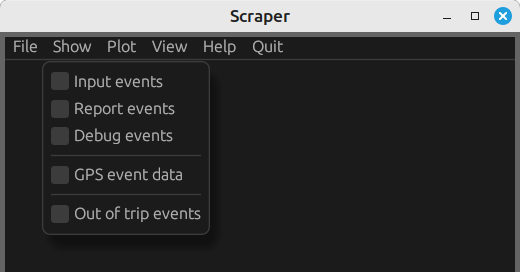
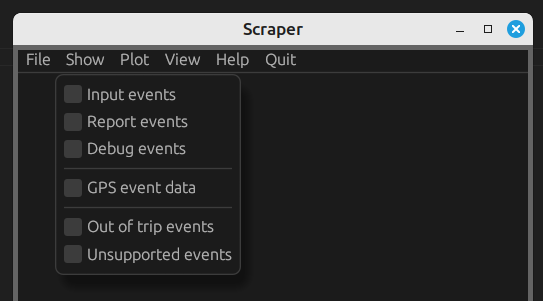
Updated help information.

Changed region(s): [[0.0, 0.0, 1.0, 1.0], [0.0923, 0.5588, 0.4308, 0.9118], [0.0923, 0.4706, 0.3385, 0.5294]]

diff --git a/src/help_content.rs b/src/help_content.rs
@@ -27,7 +27,7 @@ pub fn draw_help_content(ui: &mut egui::Ui, app: &mut MyApp) {
 
     ui.collapsing("2.1 Initial View", |ui| {
         ui.label("At the top of the image above we see that the log file contains 3 trips.");
-        ui.label("The trip is identified by the trip number, and the date and time of the start of the trip.");
+        ui.label("The trips are identified by the trip number, and the date and time of the start of the trip.");
         ui.label("Notice the small arrow at the start of each trip - this indicates that the trip has collapsed data associated with it.");
         ui.label("Clicking on the trip label will expand 1 level below.");
     });
@@ -83,8 +83,21 @@ pub fn draw_help_content(ui: &mut egui::Ui, app: &mut MyApp) {
         ui.add_space(10.0);
     }
 
-    ui.collapsing("2.6 Trip events showing optional REPORT events", |ui| {
-        ui.label("The following figure shows that REPORT events can be included with the other trip events list by selecting 'Report events' from the 'Show' menu.");
+    ui.collapsing("2.6 Trip events showing optional unsupported events", |ui| {
+        ui.label("There may be some events that are not supported (although they may be supported in the future).");
+        ui.label("Unsupported event titles will be shown in the trip/event listing in a special colour as illustrated in purple in the figure below.");
+        ui.label("Note that for unsupported events there is no event attribute data included; other than gps data.");
+    });
+
+    // Optional unsupported events displayed.
+    if let Some(texture) = &app.help_image_17 {
+        ui.add_space(10.0);
+        ui.add(egui::Image::new(texture).max_width(400.0));
+        ui.add_space(10.0);
+    }
+
+    ui.collapsing("2.7 Trip events showing optional REPORT events", |ui| {
+        ui.label("The following figure shows that REPORT events can be included with the other trip events by selecting 'Report events' from the 'Show' menu.");
     });
 
     // Optional report events displayed.
@@ -94,9 +107,9 @@ pub fn draw_help_content(ui: &mut egui::Ui, app: &mut MyApp) {
         ui.add_space(10.0);
     }
 
-    ui.collapsing("2.7 Trip events showing GPS data", |ui| {
+    ui.collapsing("2.8 Trip events showing GPS data", |ui| {
         ui.label("Most trip events include some GPS data in the event string.");
-        ui.label("By checking the 'GPS event data' from the 'Show' menu option, GPS data is apended to the event data for each event as illustrated in below.");
+        ui.label("By checking the 'GPS event data' from the 'Show' menu option, GPS data is appended to the event data for each event as illustrated in the figure below.");
         ui.label("Note that GPS data relies on a gps fix for data to be accurate or useful.");
     });
 
@@ -107,8 +120,8 @@ pub fn draw_help_content(ui: &mut egui::Ui, app: &mut MyApp) {
         ui.add_space(10.0);
     }
 
-    ui.collapsing("2.8 Out of trip events", |ui| {
-        ui.label("By checking the Show Out of trip events' from the 'Show' menu the trip events list will include any (supported) events that occured out of trip, where out of trip means after an end of trip and before a start of trip.");
+    ui.collapsing("2.9 Out of trip events", |ui| {
+        ui.label("By checking the 'Show Out of trip events' item from the 'Show' menu the trip events list will include any (supported) events that occured out of trip, where out of trip means after an end of trip or before a start of trip.");
     });
 
     // Optional out of trip events.
@@ -118,7 +131,7 @@ pub fn draw_help_content(ui: &mut egui::Ui, app: &mut MyApp) {
         ui.add_space(10.0);
     }
 
-    ui.collapsing("2.9 Out of trip event data", |ui| {
+    ui.collapsing("2.10 Out of trip event data", |ui| {
         ui.label("Out of trip events, if displayed, can be expanded to show event data as illustrated below.");
     });
 
@@ -130,8 +143,8 @@ pub fn draw_help_content(ui: &mut egui::Ui, app: &mut MyApp) {
     }
 
     ui.collapsing("3.0 GPS breadcrumb plots", |ui| {
-        ui.label("As described in early sections event data has collected gps data associated with it.");
-        ui.label("As events are recorded in sequence, when plotted, the gps data is a breadcrumn trail of the machine in question.");
+        ui.label("As described in earlier sections event data has collected gps data associated with it.");
+        ui.label("As events are recorded in sequence, when plotted, the gps data is a breadcrumb trail of the machine in question.");
         ui.label("From the Plot menu the user can select to show the gps plot for the currently selected trip (if there is one selected).");
         ui.label("The Plot menu allows the user to select a simple plot (no background), or one with an Open street (OSM), or ESRI satelitte view tile background as illustrated belwo.");
     });
@@ -189,13 +202,78 @@ pub fn draw_help_content(ui: &mut egui::Ui, app: &mut MyApp) {
         ui.add_space(10.0);
     }
 
-    ui.collapsing("4.0 User settings", |ui| {
+    ui.collapsing("4.0 Time series data plots", |ui| {
+        ui.label("As data is collected per trip (discounting out of trip events) it is possible to plot this time series data.");
+        ui.label("From the Plot menu the user can select to show time series plots for the currently selected trip (if there is one selected).");
+        ui.label("On selecting the Time Series Data option from the Plot menu a separate application window will be displayed.");
+        ui.label("The window will be blank or complete with plots depending on whether or not there is a current trip selected.");
+        ui.label("In the figure below a trip is already selected so time series events from the trip are displayed.");
+        ui.label("\nNote that unsupported events are not displayed in the time series plots, and currently only digital, analog, and impulse events are plotted.");
+    });
+
+    // Time series data plotting.
+    if let Some(texture) = &app.help_image_18 {
+        ui.add_space(10.0);
+        ui.add(egui::Image::new(texture).max_width(400.0));
+        ui.add_space(10.0);
+    }
+
+    ui.collapsing("4.1 Time series data plot window scrolling", |ui| {
+        ui.label("As illustrated in the figure above all the time series data is plotted, one event above the other.");
+        ui.label("In the case above the window needs to be scrolled down to see the event plot at the bottom, as shown in the figure below.");
+    });
+
+    // Time series data window scrolling.
+    if let Some(texture) = &app.help_image_19 {
+        ui.add_space(10.0);
+        ui.add(egui::Image::new(texture).max_width(400.0));
+        ui.add_space(10.0);
+    }
+
+    ui.collapsing("4.2 Time series data Pan and Zoom", |ui| {
+        ui.label("My selecting the Pan/Zoom button it is possible to pan and zoom the time series data.");
+        ui.label("Note that panning and zooming can only be done in the X (time) direction.");
+        ui.label("Note also the all plots will pan and zoom together, i.e. the time scale of the plots remain in alignment.");
+        ui.label("Panning and zooming of the time series data is illustrated in the figure below.");
+    });
+
+    // Time series data pan and zoom.
+    if let Some(texture) = &app.help_image_20 {
+        ui.add_space(10.0);
+        ui.add(egui::Image::new(texture).max_width(400.0));
+        ui.add_space(10.0);
+    }
+
+    ui.collapsing("4.3 Cancelling Pan and Zoom", |ui| {
+        ui.label("By pressing the Pan/Zoom button again, it will turn panning and zooming off, but the current state will remain.");
+        ui.label("If desired, select the Reset View button to cancel the panning and zooming to return to the original state.");
+    });
+
+    ui.collapsing("4.4 Time series data Time Cursor", |ui| {
+        ui.label("My selecting the Cursor button it is possible to dispay a time cursor on each of the time series plots.");
+        ui.label("Click on a time series plot, and then move the cursor line to time left or right, doing so will move the cursor line on all plots together.");
+        ui.label("At the bottom of each cursor line is the plot time corresponding to the time at that location.");
+        ui.label("An example of using the time cursor is illustrated in the figure below.");
+    });
+
+    // Time series data time cursor.
+    if let Some(texture) = &app.help_image_21 {
+        ui.add_space(10.0);
+        ui.add(egui::Image::new(texture).max_width(400.0));
+        ui.add_space(10.0);
+    }
+
+    ui.collapsing("4.5 Cancelling the time cursor", |ui| {
+        ui.label("By pressing the Cursor button again, it will remove the time cursor from all plots.");
+    });
+
+    ui.collapsing("5.0 User settings", |ui| {
         ui.label("There are some program related settings that the user can select or use independent of the log scraping functionality.");
         ui.label("These include the dark/light program setting, and the font size of trip and event data information, on the main display.");
         ui.label("These settings will be described in the following sections.");
     });
 
-    ui.collapsing("4.1 Background settings", |ui| {
+    ui.collapsing("5.1 Background settings", |ui| {
         ui.label("From the 'View' menu, the user can select between light and dark mode as illustrated below.");
         ui.label("Note that menu selection is effectively a toggle button.");
         ui.label("Note also that this will change the background to all the application windows.");
@@ -208,7 +286,7 @@ pub fn draw_help_content(ui: &mut egui::Ui, app: &mut MyApp) {
         ui.add_space(10.0);
     }
 
-    ui.collapsing("4.2 Trip and event list font size", |ui| {
+    ui.collapsing("5.2 Trip and event list font size", |ui| {
         ui.label("There is an option to change the font size used for Trip and Event data.");
         ui.label("This is achieved via the 'settings.yml' file, an example of which is shown in the following example (these are also the default values).");
     });

diff --git a/src/app.rs b/src/app.rs
@@ -56,6 +56,11 @@ pub struct MyApp {
     pub help_image_14: Option<egui::TextureHandle>,
     pub help_image_15: Option<egui::TextureHandle>,
     pub help_image_16: Option<egui::TextureHandle>,
+    pub help_image_17: Option<egui::TextureHandle>,
+    pub help_image_18: Option<egui::TextureHandle>,
+    pub help_image_19: Option<egui::TextureHandle>,
+    pub help_image_20: Option<egui::TextureHandle>,
+    pub help_image_21: Option<egui::TextureHandle>,
 }
 
 impl Default for MyApp {
@@ -108,6 +113,11 @@ impl Default for MyApp {
             help_image_14: None,
             help_image_15: None,
             help_image_16: None,
+            help_image_17: None,
+            help_image_18: None,
+            help_image_19: None,
+            help_image_20: None,
+            help_image_21: None,
         }
     }
 }
@@ -222,6 +232,21 @@ impl MyApp {
                     self.help_image_5 = Some(ctx.load_texture("help_image_5", color_image, Default::default()));
                 }
                 Err(e) => info!("Failed to load help image 5: {}", e),
+            }
+        }
+
+
+        // Help image 17 - show unsupported events.
+        if self.help_image_17.is_none() {
+            let icon_bytes = include_bytes!("../assets/help-17.png");
+            match image::load_from_memory(icon_bytes) {
+                Ok(img) => {
+                    let rgba = img.to_rgba8();
+                    let size = [img.width() as usize, img.height() as usize];
+                    let color_image = egui::ColorImage::from_rgba_unmultiplied(size, &rgba);
+                    self.help_image_17 = Some(ctx.load_texture("help_image_17", color_image, Default::default()));
+                }
+                Err(e) => info!("Failed to load help image 17: {}", e),
             }
         }
 
@@ -376,6 +401,63 @@ impl MyApp {
                     self.help_image_16 = Some(ctx.load_texture("help_image_16", color_image, Default::default()));
                 }
                 Err(e) => info!("Failed to load help image 16: {}", e),
+            }
+        }
+
+
+        // Help image 18 - time series plots.
+        if self.help_image_18.is_none() {
+            let icon_bytes = include_bytes!("../assets/help-18.png");
+            match image::load_from_memory(icon_bytes) {
+                Ok(img) => {
+                    let rgba = img.to_rgba8();
+                    let size = [img.width() as usize, img.height() as usize];
+                    let color_image = egui::ColorImage::from_rgba_unmultiplied(size, &rgba);
+                    self.help_image_18 = Some(ctx.load_texture("help_image_18", color_image, Default::default()));
+                }
+                Err(e) => info!("Failed to load help image 18: {}", e),
+            }
+        }
+
+        // Help image 19 - time series chart scrolling.
+        if self.help_image_19.is_none() {
+            let icon_bytes = include_bytes!("../assets/help-19.png");
+            match image::load_from_memory(icon_bytes) {
+                Ok(img) => {
+                    let rgba = img.to_rgba8();
+                    let size = [img.width() as usize, img.height() as usize];
+                    let color_image = egui::ColorImage::from_rgba_unmultiplied(size, &rgba);
+                    self.help_image_19 = Some(ctx.load_texture("help_image_19", color_image, Default::default()));
+                }
+                Err(e) => info!("Failed to load help image 19: {}", e),
+            }
+        }
+
+        // Help image 20 - time series pan and zoom.
+        if self.help_image_20.is_none() {
+            let icon_bytes = include_bytes!("../assets/help-20.png");
+            match image::load_from_memory(icon_bytes) {
+                Ok(img) => {
+                    let rgba = img.to_rgba8();
+                    let size = [img.width() as usize, img.height() as usize];
+                    let color_image = egui::ColorImage::from_rgba_unmultiplied(size, &rgba);
+                    self.help_image_20 = Some(ctx.load_texture("help_image_20", color_image, Default::default()));
+                }
+                Err(e) => info!("Failed to load help image 20: {}", e),
+            }
+        }
+
+        // Help image 21 - time series time cursor.
+        if self.help_image_21.is_none() {
+            let icon_bytes = include_bytes!("../assets/help-21.png");
+            match image::load_from_memory(icon_bytes) {
+                Ok(img) => {
+                    let rgba = img.to_rgba8();
+                    let size = [img.width() as usize, img.height() as usize];
+                    let color_image = egui::ColorImage::from_rgba_unmultiplied(size, &rgba);
+                    self.help_image_21 = Some(ctx.load_texture("help_image_21", color_image, Default::default()));
+                }
+                Err(e) => info!("Failed to load help image 21: {}", e),
             }
         }
     }

diff --git a/src/log_display.rs b/src/log_display.rs
@@ -319,7 +319,7 @@ fn render_top_level_event(
 
     // Event is not supported.
     // For unsupprted events attributes are not included.
-    // Similarly, gps data is not included.
+    // GPS data is included, because the format of that is known.
     if !item.ev_supported {
 
         ui.push_id(&event_id, |ui| {
@@ -328,7 +328,58 @@ fn render_top_level_event(
                     .color(colours::us_event_colour(dark_mode))
                     .family(egui::FontFamily::Monospace)
                     .size(settings.event_font_size),
-                |_ui| {
+                |ui| {
+                    // Add the gps lat/lon value from GPS for the event.
+                    ui.horizontal(|ui| {
+                        ui.label(RichText::new(format!("{:20}", "GPS Latitude"))
+                            .color(colours::gps_key_colour(dark_mode))
+                            .family(egui::FontFamily::Monospace)
+                            .size(settings.event_font_size)
+                            .italics());
+                        ui.label(RichText::new(format!("{}", &item.gps_locn.lat))
+                            .color(colours::gps_value_colour(dark_mode))
+                            .family(egui::FontFamily::Monospace)
+                            .size(settings.event_font_size)
+                            .italics());
+                    });
+                    ui.horizontal(|ui| {
+                        ui.label(RichText::new(format!("{:20}", "GPS Longitude"))
+                            .color(colours::gps_key_colour(dark_mode))
+                            .family(egui::FontFamily::Monospace)
+                            .size(settings.event_font_size)
+                            .italics());
+                        ui.label(RichText::new(format!("{}", &item.gps_locn.lon))
+                            .color(colours::gps_value_colour(dark_mode))
+                            .family(egui::FontFamily::Monospace)
+                            .size(settings.event_font_size)
+                            .italics());
+                    });
+                    // Add the speed value from GPS to key value data for the event.
+                    ui.horizontal(|ui| {
+                        ui.label(RichText::new(format!("{:20}", "GPS Speed"))
+                            .color(colours::gps_key_colour(dark_mode))
+                            .family(egui::FontFamily::Monospace)
+                            .size(settings.event_font_size)
+                            .italics());
+                        ui.label(RichText::new(format!("{}", &item.gps_speed))
+                            .color(colours::gps_value_colour(dark_mode))
+                            .family(egui::FontFamily::Monospace)
+                            .size(settings.event_font_size)
+                            .italics());
+                    });
+                    // Add the gps RSSI value from GPS to key value data for the event.
+                    ui.horizontal(|ui| {
+                        ui.label(RichText::new(format!("{:20}", "GPS RSSI"))
+                            .color(colours::gps_key_colour(dark_mode))
+                            .family(egui::FontFamily::Monospace)
+                            .size(settings.event_font_size)
+                            .italics());
+                        ui.label(RichText::new(format!("{}", &item.gps_rssi))
+                            .color(colours::gps_value_colour(dark_mode))
+                            .family(egui::FontFamily::Monospace)
+                            .size(settings.event_font_size)
+                            .italics());
+                    });
                 }
             );
         });

diff --git a/src/main.rs b/src/main.rs
@@ -8,7 +8,7 @@ use eframe::{egui};
 use lazy_static::lazy_static;
 use std::fs;
 use std::fs::File;
-use std::io::Read;
+use std::io::{Read, Write};
 use std::sync::{Mutex};
 
 use app::MyApp;
@@ -50,8 +50,25 @@ lazy_static! {
                     Err(_) => Settings::default(),
                 }
             }
-            // Settings file not found.
-            Err(_) => Settings::default(),
+            // Settings file not found - create it with defaults.
+            Err(_) => {
+                let default_settings = Settings::default();
+                
+                // Try to create the settings file.
+                if let Ok(yaml) = serde_yaml::to_string(&default_settings) {
+                    if let Ok(mut file) = File::create("settings.yml") {
+                        let content = format!(
+                            "# User settings for Scraper application\n\
+                             # Font sizes must be between 12.0 and 20.0\n\n\
+                             {}", 
+                            yaml
+                        );
+                        let _ = file.write_all(content.as_bytes());
+                    }
+                }
+                
+                default_settings
+            }
         };
         Mutex::new(settings)
     };

diff --git a/src/gps_plot.rs b/src/gps_plot.rs
@@ -1,7 +1,5 @@
 // Draw the gps data plots to a separate UI.
 
-use log::debug;
-
 use eframe::egui;
 use egui::epaint;
 use geo_types::Point;
@@ -462,8 +460,6 @@ pub fn plot_gps_data_with_tiles(
         } else {
             17.0
         };
-
-        debug!("Max span: {:?}, Zoom level: {:?}", max_span, zoom);
 
         // Set the centre and zoom for the plot.
         map_memory.center_at(centre_position);
